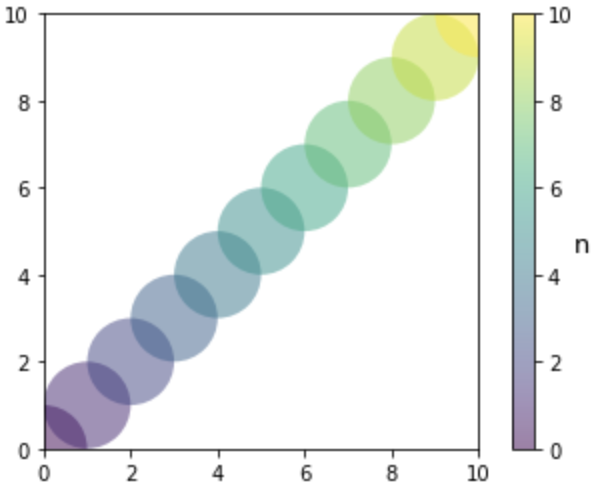
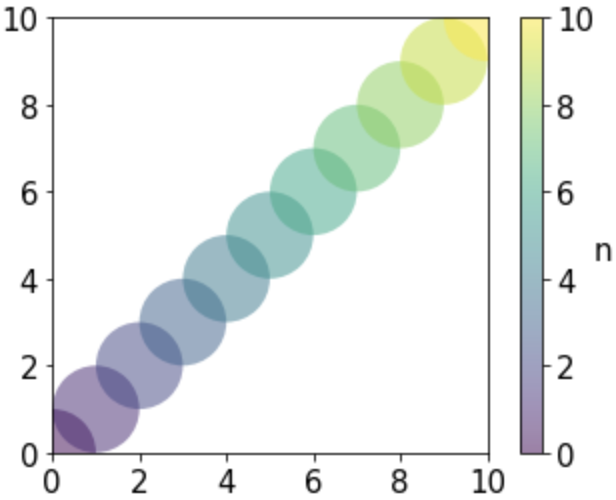
increase label size of circle plot, decrease width

diff --git a/overview.tex b/overview.tex
@@ -9,18 +9,18 @@ We now present an example-driven overview of tile-based
 editing using \tylr.
 
 \setlength\intextsep{0pt}
-\begin{wrapfigure}{r}{0.5\columnwidth}
+\begin{wrapfigure}{r}{0.43\columnwidth}
   \centering
   \texttt{$\boldsymbol{\lambda}$ n \textbf{.} \textbf{(} n , n \textbf{)} , 1}
-  \vspace{0.1cm}
+  \vspace{0.2cm}
 
-  \includegraphics[width=0.5\columnwidth]{img/circles-n-n-1.png}
+  \includegraphics[width=0.43\columnwidth]{img/circles-n-n-1.png}
 \end{wrapfigure}
 Suppose you are using \tylr~ to edit a function that gets called by a
 generative drawing application \cite{sns-pldi}.
 \note{use word ``exploratory here''}
 The function takes an integer index and
-return a circle---represented as a pair comprising
+returns a circle---represented as a pair comprising
 its center point and radius---to be drawn in
 the $xy$-plane for every index.
 The initial implementation, shown on the right, draws circles
